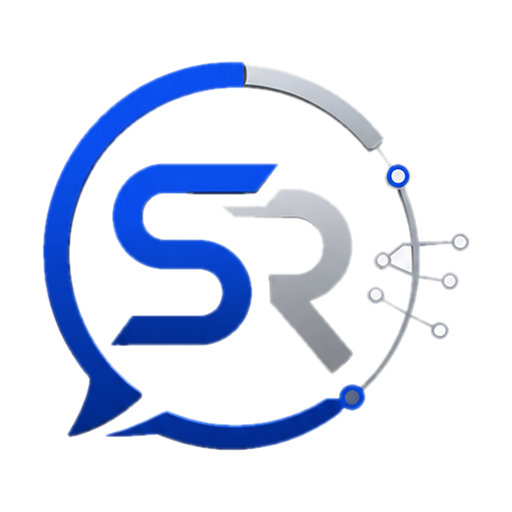
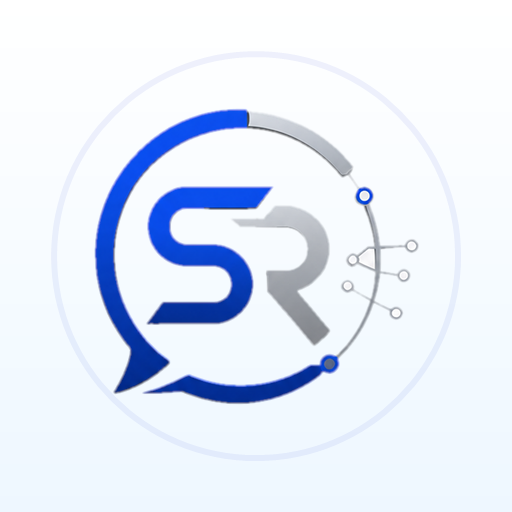
Add polished mobile launch splash

diff --git a/public/sw.js b/public/sw.js
@@ -1,4 +1,4 @@
-const CACHE_NAME = 'speakready-pwa-v6';
+const CACHE_NAME = 'speakready-pwa-v7';
 
 self.addEventListener('install', event => {
   self.skipWaiting();

diff --git a/resources/views/layouts/guest.blade.php b/resources/views/layouts/guest.blade.php
@@ -3,7 +3,7 @@
    <head>
       <meta charset="UTF-8">
       <meta name="viewport" content="width=device-width, initial-scale=1.0, maximum-scale=1.0, user-scalable=no">
-      <meta name="theme-color" content="#ffffff">
+      <meta name="theme-color" content="#f7fbff">
       <title>SpeakReady AI - Practice Smarter. Interview Better.</title>
       <link rel="icon" href="{{ asset('img/logo.png') }}" type="image/png">
       <link rel="manifest" href="{{ asset('manifest.json') }}">
@@ -67,15 +67,210 @@
          .pwa-btn-no { flex: 1; padding: 10px; border-radius: 10px; border: 1px solid #ccc; background: transparent; color: #333; font-weight: 600; cursor: pointer; }
          html:not(.lm) .pwa-btn-no { border-color: #444; color: #fff; }
          .pwa-btn-yes { flex: 1; padding: 10px; border-radius: 10px; border: none; background: var(--pur, #8b5cf6); color: #fff; font-weight: 600; cursor: pointer; }
+
+         /* --- Mobile App Launch Splash --- */
+         .sr-launch-screen {
+            display: none;
+         }
+
+         @media (max-width: 820px), (display-mode: standalone) {
+            body.guest-splash-pending {
+               overflow: hidden;
+               background: #f7fbff;
+            }
+
+            body.guest-splash-pending #landing,
+            body.guest-splash-pending #lofc,
+            body.guest-splash-pending #pwa-install-prompt {
+               visibility: hidden;
+            }
+
+            .sr-launch-screen {
+               position: fixed;
+               inset: 0;
+               z-index: 1000000;
+               display: flex;
+               align-items: center;
+               justify-content: center;
+               min-height: 100vh;
+               min-height: 100svh;
+               padding: max(28px, env(safe-area-inset-top)) 24px max(26px, env(safe-area-inset-bottom));
+               background:
+                  linear-gradient(180deg, #ffffff 0%, #f7fbff 48%, #edf7ff 100%);
+               color: #0f172a;
+               text-align: center;
+               opacity: 1;
+               visibility: visible;
+               transition: opacity 0.42s ease, visibility 0.42s ease;
+            }
+
+            .sr-launch-screen.is-hiding {
+               opacity: 0;
+               visibility: hidden;
+               pointer-events: none;
+            }
+
+            .sr-launch-content {
+               width: min(100%, 360px);
+               display: flex;
+               flex-direction: column;
+               align-items: center;
+            }
+
+            .sr-launch-mark {
+               position: relative;
+               width: clamp(118px, 34vw, 158px);
+               aspect-ratio: 1;
+               border-radius: 32px;
+               display: grid;
+               place-items: center;
+               margin-bottom: 26px;
+               background: rgba(255, 255, 255, 0.92);
+               border: 1px solid rgba(59, 130, 246, 0.16);
+               box-shadow:
+                  0 22px 48px rgba(15, 23, 42, 0.10),
+                  inset 0 1px 0 rgba(255, 255, 255, 0.92);
+            }
+
+            .sr-launch-mark::after {
+               content: "";
+               position: absolute;
+               inset: 11px;
+               border-radius: 24px;
+               border: 1px solid rgba(20, 184, 166, 0.16);
+               pointer-events: none;
+            }
+
+            .sr-launch-mark img {
+               width: 76%;
+               height: 76%;
+               object-fit: contain;
+               filter: drop-shadow(0 10px 16px rgba(37, 99, 235, 0.16));
+            }
+
+            .sr-launch-kicker {
+               margin: 0 0 9px;
+               color: #2563eb;
+               font-size: clamp(0.7rem, 2.4vw, 0.78rem);
+               font-weight: 700;
+               letter-spacing: 0.15em;
+               text-transform: uppercase;
+            }
+
+            .sr-launch-title {
+               margin: 0;
+               color: #0f172a;
+               font-size: clamp(2rem, 9vw, 2.75rem);
+               font-weight: 800;
+               line-height: 1.05;
+               letter-spacing: 0;
+            }
+
+            .sr-launch-copy {
+               max-width: 300px;
+               margin: 12px auto 28px;
+               color: #475569;
+               font-size: clamp(0.9rem, 3.45vw, 1rem);
+               line-height: 1.55;
+            }
+
+            .sr-launch-progress {
+               width: min(100%, 238px);
+               height: 5px;
+               overflow: hidden;
+               border-radius: 999px;
+               background: #dbeafe;
+            }
+
+            .sr-launch-progress span {
+               display: block;
+               width: 42%;
+               height: 100%;
+               border-radius: inherit;
+               background: linear-gradient(90deg, #2563eb, #14b8a6);
+               animation: srLaunchLoad 1.28s ease-in-out infinite;
+            }
+
+            .sr-launch-status {
+               min-height: 18px;
+               margin-top: 15px;
+               color: #64748b;
+               font-size: clamp(0.72rem, 2.8vw, 0.82rem);
+               font-weight: 600;
+            }
+         }
+
+         @media (max-width: 360px) {
+            .sr-launch-mark {
+               border-radius: 26px;
+               margin-bottom: 22px;
+            }
+
+            .sr-launch-copy {
+               margin-bottom: 24px;
+            }
+         }
+
+         @media (prefers-reduced-motion: reduce) {
+            .sr-launch-screen,
+            .sr-launch-progress span {
+               animation: none !important;
+               transition: none !important;
+            }
+         }
          
          @media (max-width: 767px) {
+            #hero {
+               min-height: auto;
+               padding-top: calc(var(--nav) + 18px);
+               justify-content: flex-start;
+            }
+
+            #hero .container {
+               max-width: 100%;
+               padding-left: 18px;
+               padding-right: 18px;
+            }
+
+            #hero .hbadge {
+               display: inline-block !important;
+               max-width: min(100%, 320px);
+               margin-bottom: 18px;
+               padding: 8px 12px;
+               white-space: normal;
+               text-align: center;
+               line-height: 1.35;
+               font-size: clamp(0.64rem, 2.55vw, 0.72rem);
+               letter-spacing: 0;
+            }
+
+            #hero .h1 {
+               max-width: 330px;
+               margin-left: auto;
+               margin-right: auto;
+               font-size: clamp(1.86rem, 8.1vw, 2.05rem) !important;
+               line-height: 1.08;
+               letter-spacing: 0;
+            }
+
+            #hero .h1 span {
+               display: inline-block;
+            }
+
+            #hero p.mx-auto {
+               max-width: 340px !important;
+               margin-bottom: 26px !important;
+               font-size: clamp(0.86rem, 3.6vw, 0.98rem) !important;
+               line-height: 1.55;
+            }
+
             #hero .d-flex.align-items-center.justify-content-center.gap-3.flex-wrap.hero-cta-row {
                display: grid !important;
-               grid-template-columns: minmax(0, 1.24fr) minmax(0, 1fr) minmax(0, .94fr);
+               grid-template-columns: repeat(2, minmax(0, 1fr));
                align-items: stretch !important;
                justify-content: center !important;
-               gap: 6px !important;
-               width: min(100%, 430px);
+               gap: 8px !important;
+               width: min(100%, 350px);
                margin-left: auto;
                margin-right: auto;
                flex-wrap: nowrap !important;
@@ -85,16 +280,20 @@
                width: 100% !important;
                max-width: none !important;
                min-width: 0;
-               min-height: 38px;
-               padding: 8px 6px !important;
+               min-height: 42px;
+               padding: 9px 8px !important;
                border-radius: 8px;
                display: inline-flex;
                align-items: center;
                justify-content: center;
                gap: 4px;
-               font-size: clamp(0.66rem, 2.7vw, 0.78rem) !important;
+               font-size: clamp(0.72rem, 3vw, 0.82rem) !important;
                line-height: 1.1;
                white-space: nowrap;
+            }
+
+            #hero .d-flex.align-items-center.justify-content-center.gap-3.flex-wrap.hero-cta-row > .btn:first-child {
+               grid-column: 1 / -1;
             }
 
             #hero .d-flex.align-items-center.justify-content-center.gap-3.flex-wrap.hero-cta-row i {
@@ -106,15 +305,15 @@
 
          @media (max-width: 360px) {
             #hero .d-flex.align-items-center.justify-content-center.gap-3.flex-wrap.hero-cta-row {
-               gap: 5px !important;
-               grid-template-columns: minmax(0, 1.28fr) minmax(0, 1fr) minmax(0, .92fr);
+               gap: 7px !important;
+               grid-template-columns: 1fr;
             }
 
             #hero .d-flex.align-items-center.justify-content-center.gap-3.flex-wrap.hero-cta-row > .btn {
-               min-height: 36px;
-               padding-left: 4px !important;
-               padding-right: 4px !important;
-               font-size: 0.6rem !important;
+               min-height: 40px;
+               padding-left: 8px !important;
+               padding-right: 8px !important;
+               font-size: 0.74rem !important;
             }
          }
 
@@ -122,9 +321,72 @@
             from { opacity: 0; transform: translateY(20px); }
             to { opacity: 1; transform: translateY(0); }
          }
+
+         @keyframes srLaunchLoad {
+            0% { transform: translateX(-115%); }
+            55% { transform: translateX(88%); }
+            100% { transform: translateX(245%); }
+         }
       </style>
    </head>
-   <body>
+   <body @if(!$errors->any()) class="guest-splash-pending" @endif>
+      @if(!$errors->any())
+      <div id="srLaunchScreen" class="sr-launch-screen" role="status" aria-live="polite" aria-label="Opening SpeakReady AI">
+         <div class="sr-launch-content">
+            <div class="sr-launch-mark">
+               <img src="{{ asset('img/logo.png') }}" alt="SpeakReady AI">
+            </div>
+            <p class="sr-launch-kicker">AI Interview Coach</p>
+            <h1 class="sr-launch-title">SpeakReady AI</h1>
+            <p class="sr-launch-copy">Practice. Improve. Speak with confidence.</p>
+            <div class="sr-launch-progress" aria-hidden="true"><span></span></div>
+            <div class="sr-launch-status">Preparing your practice space</div>
+         </div>
+      </div>
+      <script>
+         (function () {
+            const splash = document.getElementById('srLaunchScreen');
+            if (!splash) return;
+
+            const isStandalone = window.matchMedia('(display-mode: standalone)').matches || window.navigator.standalone === true;
+            const isMobile = window.matchMedia('(max-width: 820px)').matches;
+            const reduceMotion = window.matchMedia('(prefers-reduced-motion: reduce)').matches;
+            const seenKey = 'speakready_guest_splash_seen';
+            const shouldShow = (isStandalone || isMobile) && !sessionStorage.getItem(seenKey);
+
+            function clearSplash() {
+               document.body.classList.remove('guest-splash-pending');
+               splash.classList.add('is-hiding');
+               window.setTimeout(function () {
+                  splash.remove();
+               }, reduceMotion ? 0 : 460);
+            }
+
+            if (!shouldShow) {
+               clearSplash();
+               return;
+            }
+
+            sessionStorage.setItem(seenKey, '1');
+            const startedAt = window.performance ? performance.now() : Date.now();
+            const minimumDuration = reduceMotion ? 240 : 1650;
+
+            function finishWhenReady() {
+               const now = window.performance ? performance.now() : Date.now();
+               const remaining = Math.max(0, minimumDuration - (now - startedAt));
+               window.setTimeout(clearSplash, remaining);
+            }
+
+            if (document.readyState === 'loading') {
+               document.addEventListener('DOMContentLoaded', finishWhenReady, { once: true });
+            } else {
+               finishWhenReady();
+            }
+
+            window.setTimeout(clearSplash, 3600);
+         })();
+      </script>
+      @endif
 <!-- ======================== LANDING PAGE ======================== -->
       <div id="landing">
          <!-- NAVBAR -->
@@ -185,7 +447,7 @@
              <div class="container position-relative" style="z-index:2">
                 <div class="text-center mt-3 pt-3 afu" style="animation-delay:.05s">
                     <span class="hbadge">
-                 AI-Powered Learning | Real-Time Feedback | Interactive Training
+                 AI-Powered Practice | Real-Time Feedback
                     </span>
                 </div>
                 <div class="row align-items-center mt-4">
@@ -1187,9 +1449,25 @@
             e.preventDefault();
             deferredPrompt = e;
             if (!localStorage.getItem('pwa_prompt_dismissed')) {
-               document.getElementById('pwa-install-prompt').style.display = 'block';
+               queuePwaInstallPrompt();
             }
          });
+
+         function queuePwaInstallPrompt() {
+            const prompt = document.getElementById('pwa-install-prompt');
+            if (!prompt) return;
+
+            window.setTimeout(() => {
+               if (document.body.classList.contains('guest-splash-pending')) {
+                  queuePwaInstallPrompt();
+                  return;
+               }
+
+               if (!localStorage.getItem('pwa_prompt_dismissed')) {
+                  prompt.style.display = 'block';
+               }
+            }, 4200);
+         }
 
          async function triggerInstall() {
             const isStandalone = window.matchMedia('(display-mode: standalone)').matches || window.navigator.standalone === true;
